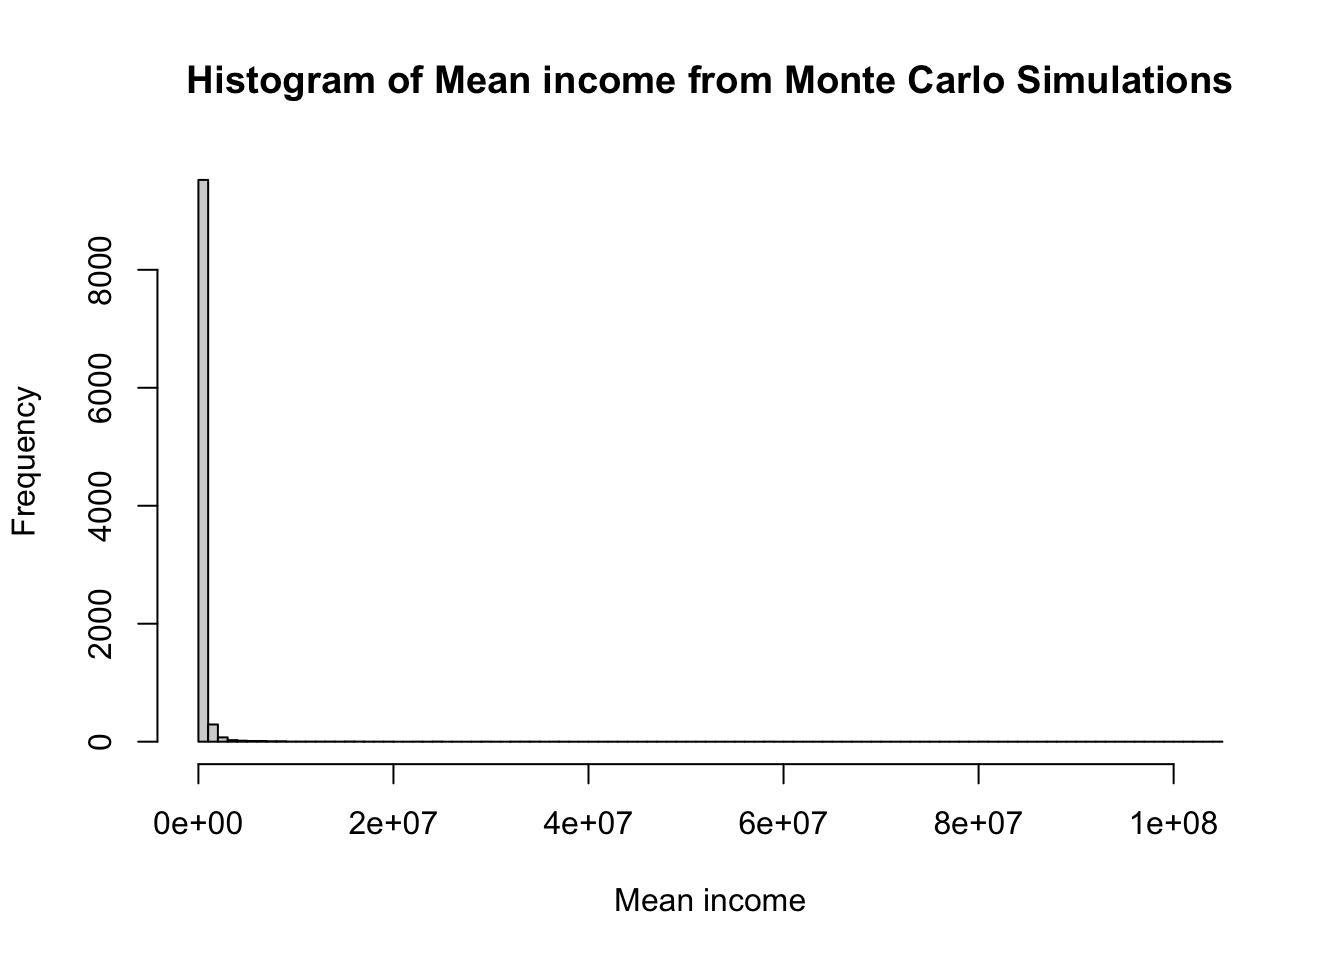
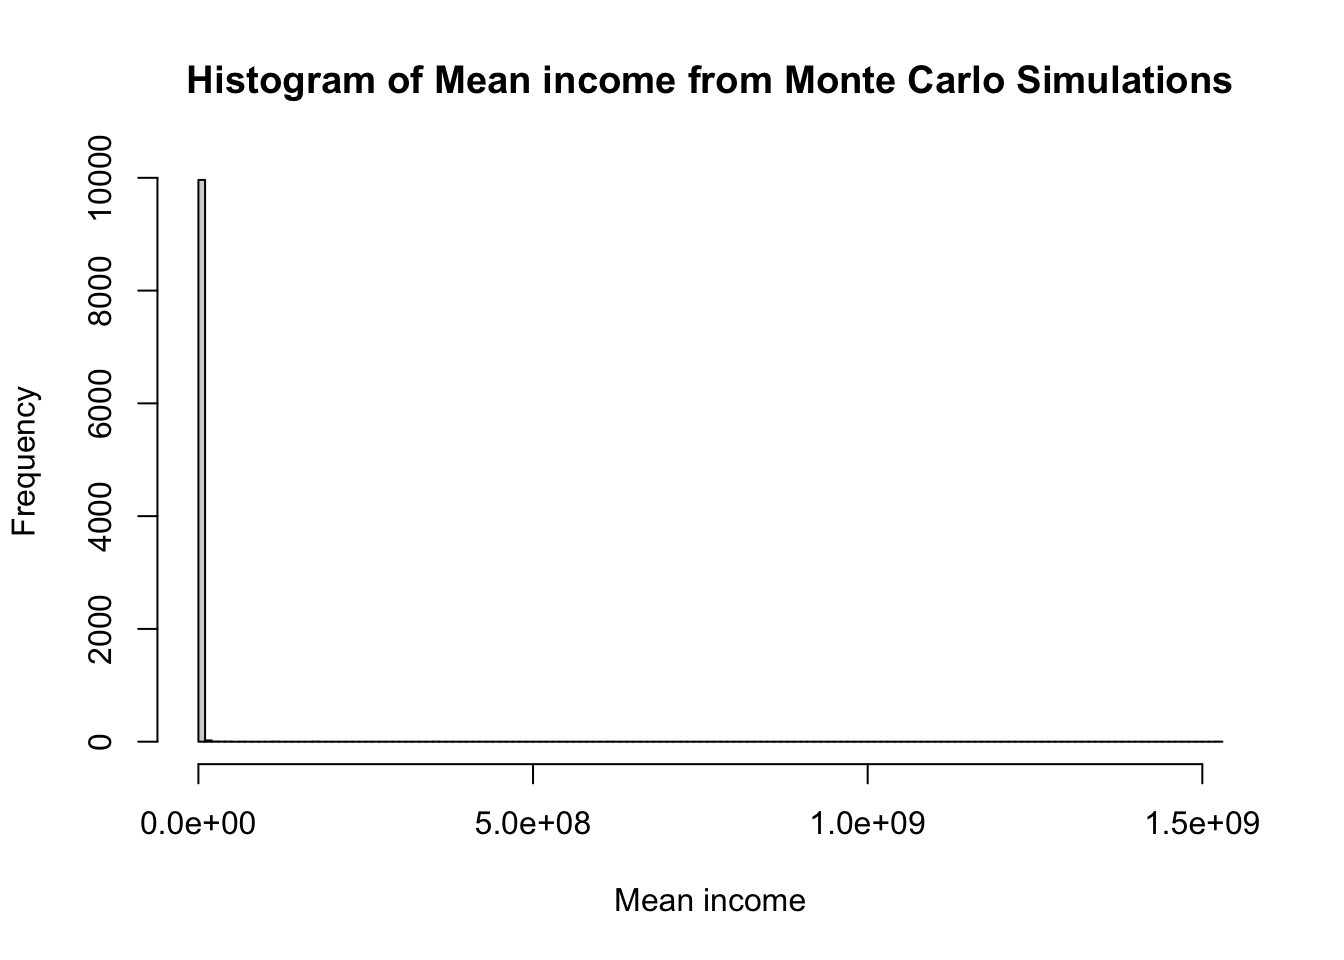
pink rose 2

diff --git a/docs/posts/Pink roses.html b/docs/posts/Pink roses.html
@@ -844,8 +844,6 @@ cookieconsent.run({
   <li><a href="#aesthetic-appeal" id="toc-aesthetic-appeal" class="nav-link active" data-scroll-target="#aesthetic-appeal"><strong>Aesthetic Appeal</strong></a></li>
   <li><a href="#technique" id="toc-technique" class="nav-link" data-scroll-target="#technique">Technique</a>
   <ul class="collapse">
-  <li><a href="#watercolour-technique" id="toc-watercolour-technique" class="nav-link" data-scroll-target="#watercolour-technique"><strong>Watercolour Technique</strong></a></li>
-  <li><a href="#detail-in-the-roses" id="toc-detail-in-the-roses" class="nav-link" data-scroll-target="#detail-in-the-roses"><strong>Detail in the Roses</strong></a></li>
   <li><a href="#control-and-precision" id="toc-control-and-precision" class="nav-link" data-scroll-target="#control-and-precision"><strong>Control and Precision</strong></a></li>
   </ul></li>
   <li><a href="#composition" id="toc-composition" class="nav-link" data-scroll-target="#composition"><strong>Composition</strong></a></li>
@@ -903,24 +901,25 @@ cookieconsent.run({
 <h2 class="anchored" data-anchor-id="aesthetic-appeal"><strong>Aesthetic Appeal</strong></h2>
 <ol type="1">
 <li><p><strong>Color Palette</strong>: The soft pinks of the roses complement the light, creamy yellow background, giving the painting a gentle and soothing appearance. The green leaves add contrast, balancing the overall composition.</p></li>
-<li><p><strong>Technique</strong>: The watercolor style is evident in the soft blending of colors, especially in the background, which creates a textured effect. The roses are more defined, with delicate shading, which enhances their three-dimensional look. The artist has achieved a nice balance between detail and softness.</p></li>
-<li><p><strong>Composition</strong>: Centering the pot and flowers works well here, focusing the viewer’s attention directly on the subject. The background has a textured yet minimalistic feel, which avoids distracting from the focal point of the painting.</p></li>
+<li><p><strong>Technique</strong>: The watercolour style with the soft blending of colours, especially in the background, creates a textured effect. The roses are more defined, with delicate shading, which enhances their three-dimensional look. The artist has achieved a nice balance between detail and softness.</p></li>
+<li><p><strong>Composition</strong>: Centering the pot and flowers focus the viewer’s attention directly on the subject. The background has a textured yet minimalistic feel, which avoids distracting from the focal point of the painting.</p></li>
 <li><p><strong>Lighting</strong>: The light effect in the background, with rays gently illuminating the roses, adds a warm, almost glowing atmosphere to the scene, giving the painting a serene and uplifting mood.</p></li>
 </ol>
-<p>Overall, it’s a beautifully executed piece, with a pleasing balance of color, light, and composition. The artist’s choice to keep the background soft helps to bring out the details in the flowers, making them the highlight of the piece.</p>
+<p>Overall, it’s a beautifully executed piece, with a pleasing balance of colour, light, and composition. The artist’s choice to keep the background soft helps to bring out the details in the flowers, making them the highlight of the piece.</p>
 </section>
 <section id="technique" class="level2">
 <h2 class="anchored" data-anchor-id="technique">Technique</h2>
-<p>In terms of technical skill and execution, this watercolor painting showcases a balanced mix of techniques and thoughtful decisions that enhance its overall effect.</p>
-<section id="watercolour-technique" class="level3">
-<h3 class="anchored" data-anchor-id="watercolour-technique"><strong>Watercolour Technique</strong></h3>
-<ul>
-<li><strong>Blending and Washes</strong>: The artist has used soft washes for the background, creating a subtle gradient effect with a warm, light yellow hue. This is well executed, as the blending of colours feels smooth and controlled. The watercolour medium shines here with its fluidity, giving the background an almost ethereal quality.</li>
-<li><strong>Texturing</strong>: The background also features some interesting texture, possibly achieved through the “wet-on-wet” technique or dabbing with a sponge. This adds depth and dimension without overwhelming the focal point, which is the potted roses.</li>
-</ul>
+<section id="blending-and-washes" class="level4">
+<h4 class="anchored" data-anchor-id="blending-and-washes"><strong>Blending and Washes</strong>:</h4>
+<p>The artist has used soft washes for the background, creating a subtle gradient effect with a warm, light yellow hue. This is well executed, as the blending of colours feels smooth and controlled. The watercolour medium shines here with its fluidity, giving the background an almost ethereal quality.</p>
 </section>
-<section id="detail-in-the-roses" class="level3">
-<h3 class="anchored" data-anchor-id="detail-in-the-roses"><strong>Detail in the Roses</strong></h3>
+<section id="texturing" class="level4">
+<h4 class="anchored" data-anchor-id="texturing"><strong>Texturing</strong>:</h4>
+<p>The background also features some interesting texture, possibly achieved through the “wet-on-wet” technique or dabbing with a sponge. This adds depth and dimension without overwhelming the focal point.</p>
+</section>
+<section id="detail-in-the-roses" class="level4">
+<h4 class="anchored" data-anchor-id="detail-in-the-roses"><strong>Detail in the Roses</strong></h4>
+</section>
 <section id="layering" class="level4">
 <h4 class="anchored" data-anchor-id="layering"><strong>Layering</strong>:</h4>
 <p>The roses themselves are rendered with more defined details, which indicates the artist’s understanding of how to layer watercolour effectively. Watercolor can be tricky when it comes to building layers, as it can easily overwork or muddy the paper. However, in this case, the artist has successfully built up the forms of the roses through layered washes and strategic shading, giving them a natural, soft appearance.</p>
@@ -928,7 +927,6 @@ cookieconsent.run({
 <section id="shading-and-volume" class="level4">
 <h4 class="anchored" data-anchor-id="shading-and-volume"><strong>Shading and Volume</strong></h4>
 <p>The shading on the petals creates a sense of depth and realism, enhancing the three-dimensional look of the flowers. The artist has carefully shaded the undersides of petals and added highlights, showing an understanding of how light interacts with organic forms.</p>
-</section>
 </section>
 <section id="control-and-precision" class="level3">
 <h3 class="anchored" data-anchor-id="control-and-precision"><strong>Control and Precision</strong></h3>
@@ -956,15 +954,15 @@ cookieconsent.run({
 <section id="concept-and-meaning" class="level2">
 <h2 class="anchored" data-anchor-id="concept-and-meaning">Concept and meaning</h2>
 <p>The watercolour artwork featuring pink roses in a white pot against a soft yellow background evokes a sense of tranquillity, beauty, and simplicity.</p>
-<p><strong>Pink Roses</strong>: traditionally symbolize love, grace, and <strong><em>gratitude</em></strong>.</p>
+<p><strong>Pink Roses</strong> traditionally symbolize love, grace, and <strong><em>gratitude</em></strong>.</p>
 <blockquote class="blockquote">
 <p>The choice of pink rather than bold red suggests a subtler, more refined expression of these feelings, leaning toward peacefulness and tenderness rather than passion.</p>
 </blockquote>
-<p><strong>White Pot as a Vessel</strong>:The plain white pot can symbolize purity and simplicity. It contrasts with the vibrant colours of the roses, serving as a neutral base that allows the beauty of the flowers to take center stage.</p>
+<p><strong>White Pot as a Vessel</strong> symbolize purity and simplicity. It contrasts with the vibrant colours of the roses, serving as a neutral base that allows the beauty of the flowers to take center stage.</p>
 <blockquote class="blockquote">
 <p>The pot, being a vessel, might also suggest that beauty and love need nurturing and care to grow.</p>
 </blockquote>
-<p><strong>Soft Yellow Background</strong>:The background, rendered in soft yellows and creams, brings warmth and light into the scene. Yellow often symbolizes optimism, happiness, and energy. The subtle gradient in the background, with light beams suggesting illumination, may <strong><em>represent a positive, uplifting atmosphere, possibly signifying hope, joy, or new beginnings</em></strong>.</p>
+<p><strong>Soft Yellow Background</strong> brings warmth and light into the scene. Yellow often symbolizes optimism, happiness, and energy. The subtle gradient in the background, with light beams suggesting illumination, <strong><em>representing a positive, uplifting atmosphere, possibly signifying hope, joy, and a bright future</em></strong>.</p>
 <div class="callout callout-style-default callout-important callout-titled">
 <div class="callout-header d-flex align-content-center">
 <div class="callout-icon-container">
@@ -977,10 +975,10 @@ Overall message
 <div class="callout-body-container callout-body">
 <p>The overall composition seems to celebrate the simplicity and elegance of nature. The roses, a classic symbol of beauty, are placed in a humble, everyday object (the pot), reinforcing the idea that beauty can thrive in simple, unpretentious settings.</p>
 <p>The warm, glowing background adds a timeless, ethereal quality to the image, almost as if it’s capturing a moment of peace that could last forever.</p>
+</div>
+</div>
 <p>In essence,</p>
-<p><strong><em>the work reminds the viewer to find beauty in ordinary moments and to nurture the things that bring light and warmth into their lives.</em></strong></p>
-</div>
-</div>
+<p><span style="color: blue"><strong><em>the work reminds the viewer to find beauty in ordinary moments and to nurture the things that bring light and warmth into their lives.</em></strong></span></p>
 
 
 </section>

diff --git a/docs/posts/montecarlo.html b/docs/posts/montecarlo.html
@@ -1078,7 +1078,7 @@ Income distribution is not normal
 </details>
 <div class="cell-output cell-output-stdout">
 <pre><code>     Min.   1st Qu.    Median      Mean   3rd Qu.      Max. 
-   215957    297193    345403    536932    439557 104496760 </code></pre>
+2.070e+05 2.986e+05 3.453e+05 8.276e+05 4.350e+05 1.522e+09 </code></pre>
 </div>
 <details open="" class="code-fold">
 <summary>Code</summary>
@@ -1086,7 +1086,7 @@ Income distribution is not normal
 </details>
 <div class="cell-output cell-output-stdout">
 <pre><code>   Min. 1st Qu.  Median    Mean 3rd Qu.    Max. 
-  61945   64059   64494   64499   64934   66939 </code></pre>
+  62347   64060   64490   64499   64929   66927 </code></pre>
 </div>
 <details open="" class="code-fold">
 <summary>Code</summary>
@@ -1094,7 +1094,7 @@ Income distribution is not normal
 </details>
 <div class="cell-output cell-output-stdout">
 <pre><code>     Min.   1st Qu.    Median      Mean   3rd Qu.      Max. 
-1.084e+06 3.391e+06 5.758e+06 2.425e+07 1.214e+07 1.016e+10 </code></pre>
+8.699e+05 3.379e+06 5.735e+06 5.337e+07 1.189e+07 1.522e+11 </code></pre>
 </div>
 </div>
 </section>

diff --git a/docs/posts.html b/docs/posts.html
@@ -1039,7 +1039,7 @@ Categories
 <span class="listing-categories">Monte Carlo simulation, economics</span>
 </td>
 </tr>
-<tr data-index="2" data-categories="art" data-listing-date-sort="1727202600000" data-listing-file-modified-sort="1727253525291" data-listing-date-modified-sort="NaN" data-listing-reading-time-sort="5" data-listing-word-count-sort="854" data-listing-title-sort="Pink roses in a white pot" data-listing-filename-sort="Pink roses.qmd">
+<tr data-index="2" data-categories="art" data-listing-date-sort="1727202600000" data-listing-file-modified-sort="1727254742870" data-listing-date-modified-sort="NaN" data-listing-reading-time-sort="5" data-listing-word-count-sort="804" data-listing-title-sort="Pink roses in a white pot" data-listing-filename-sort="Pink roses.qmd">
 <td>
 <span class="listing-date">Sep 25, 2024</span>
 </td>

diff --git a/docs/Biomedical/Research Methodology/wrangling.html b/docs/Biomedical/Research Methodology/wrangling.html
@@ -2373,10 +2373,10 @@ Record
 <div class="cell-output cell-output-stdout">
 <pre><code>     age   sex  class
    &lt;int&gt; &lt;int&gt; &lt;fctr&gt;
-1:     1     1  child
+1:     1     0  child
 2:     2     0  child
-3:     3     1  child
-4:     4     1  child
+3:     3     0  child
+4:     4     0  child
 5:     5     1  child
 6:     6     1  child</code></pre>
 </div>
@@ -2396,10 +2396,10 @@ Record
 <pre><code>Key: &lt;age&gt;
      age      0      1
    &lt;int&gt; &lt;fctr&gt; &lt;fctr&gt;
-1:     1   &lt;NA&gt;  child
+1:     1  child   &lt;NA&gt;
 2:     2  child   &lt;NA&gt;
-3:     3   &lt;NA&gt;  child
-4:     4   &lt;NA&gt;  child
+3:     3  child   &lt;NA&gt;
+4:     4  child   &lt;NA&gt;
 5:     5   &lt;NA&gt;  child
 6:     6   &lt;NA&gt;  child</code></pre>
 </div>

diff --git a/docs/Revision notes/Diagrams/diagrams.html b/docs/Revision notes/Diagrams/diagrams.html
@@ -1357,7 +1357,7 @@ window.document.addEventListener("DOMContentLoaded", function (event) {
 </div>
   </div>
 </footer>
-<script>var lightboxQuarto = GLightbox({"openEffect":"zoom","descPosition":"bottom","closeEffect":"zoom","selector":".lightbox","loop":false});
+<script>var lightboxQuarto = GLightbox({"closeEffect":"zoom","loop":false,"descPosition":"bottom","openEffect":"zoom","selector":".lightbox"});
 window.onload = () => {
   lightboxQuarto.on('slide_before_load', (data) => {
     const { slideIndex, slideNode, slideConfig, player, trigger } = data;
